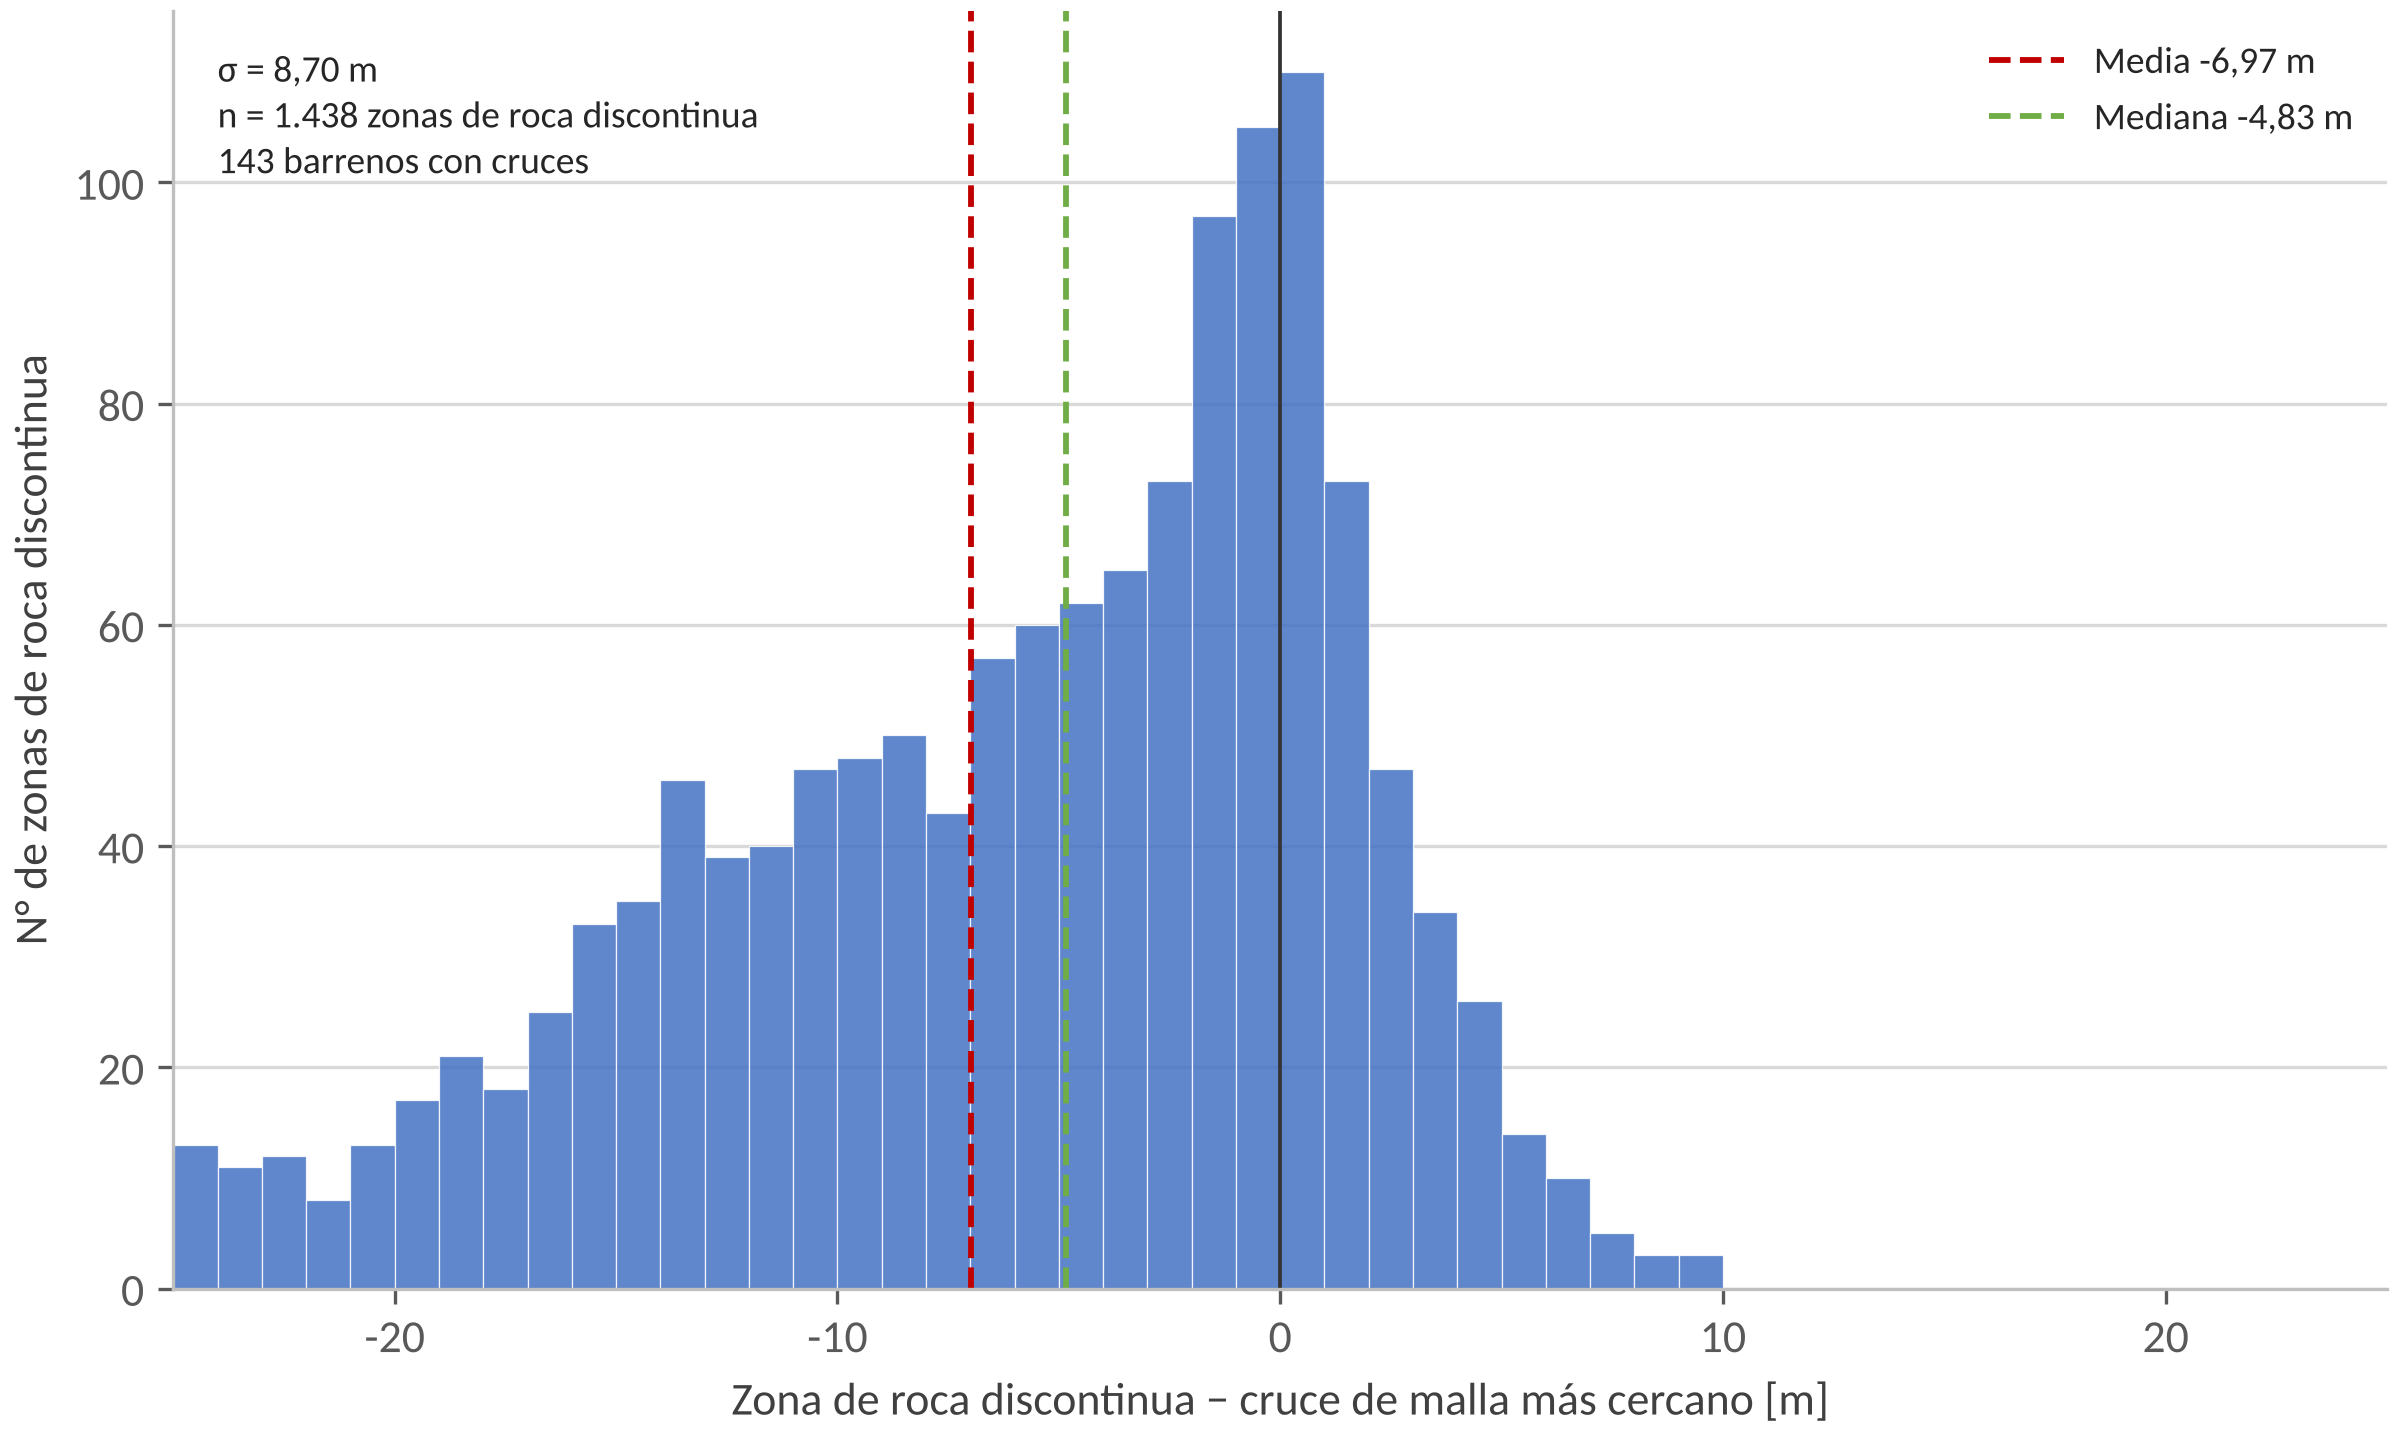
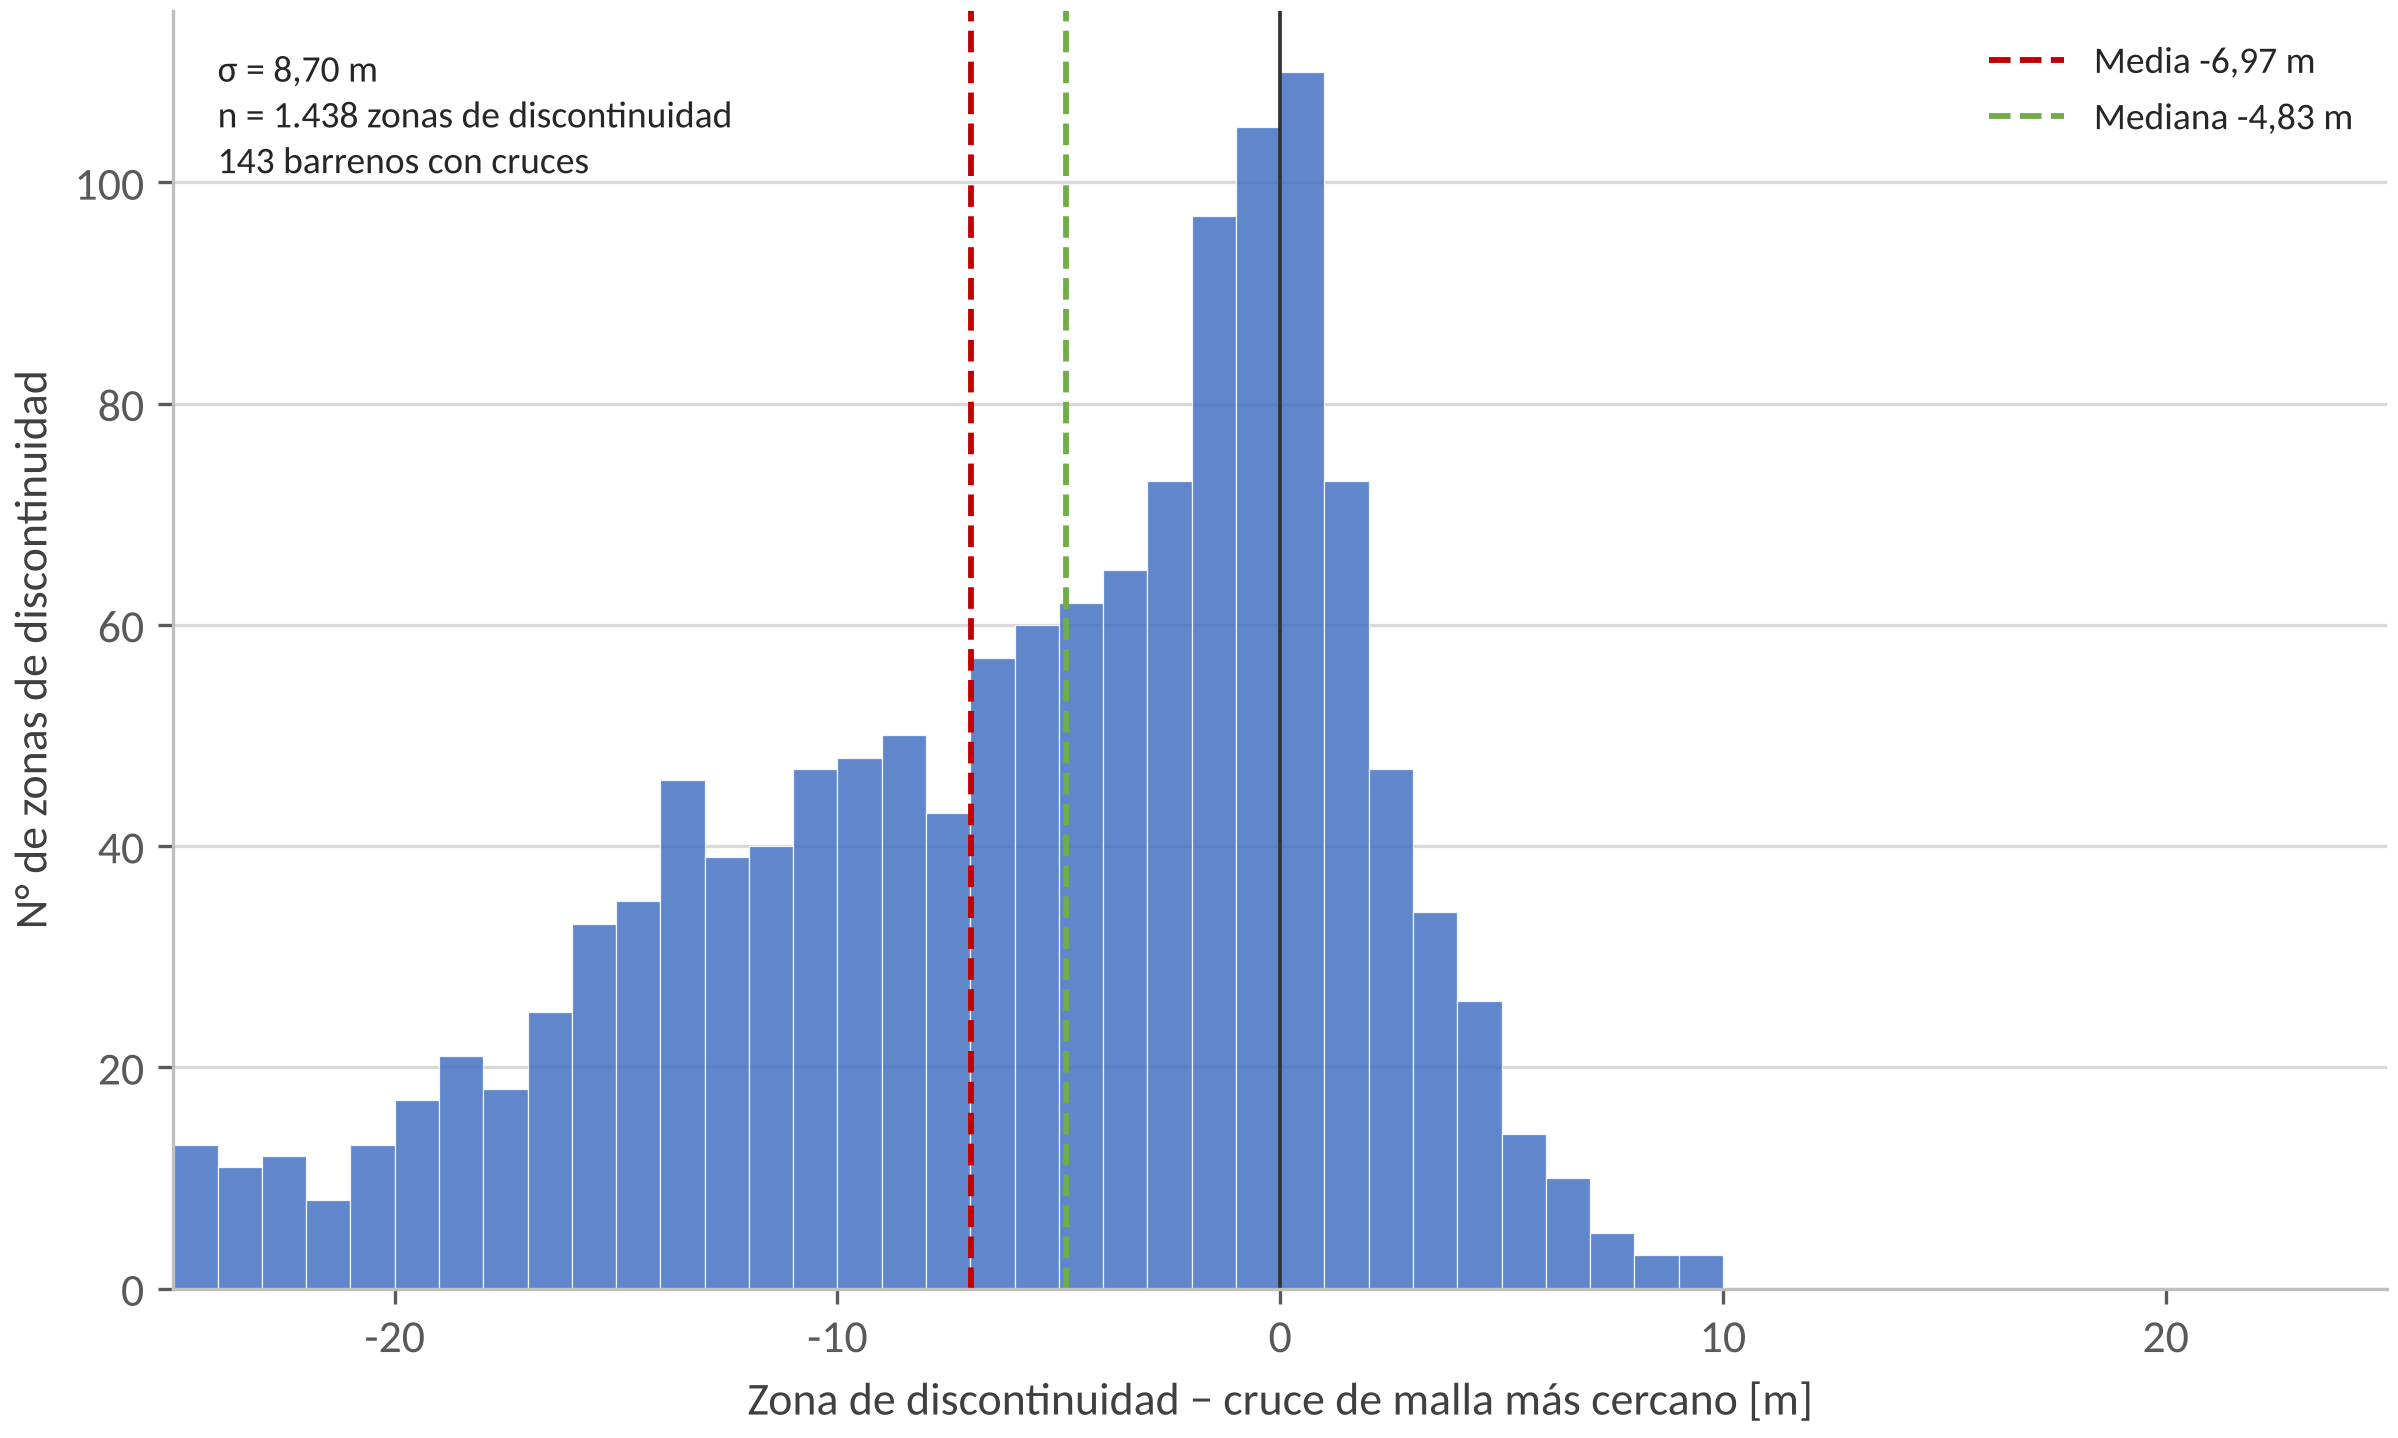
Concordancia: «zona de discontinuidad» en vez de «zona de roca discontinua» (Figuras 5.10-5.13, C.1, C.2)
Claude-Session: https://claude.ai/code/session_01MT9AkNnHr1e9AMWji6YncB

Changed region(s): [[0.3086, 0.9485, 0.7715, 1.0], [0.0, 0.2448, 0.0309, 0.6426], [0.216, 0.0612, 0.3086, 0.0918]]

diff --git a/memoria_final/final/final_figs.py b/memoria_final/final/final_figs.py
@@ -625,12 +625,12 @@ a1.hist(dl, bins=np.arange(-30, 30.5, 1.0), color=AZUL, alpha=0.85, edgecolor="w
 a1.axvline(0, color="#333", lw=0.9)
 a1.axvline(dl.mean(), color=ROJO, ls="--", lw=1.4, label=f"Media {dec(dl.mean(), 2)} m")
 a1.axvline(np.median(dl), color=VERDE, ls="--", lw=1.4, label=f"Mediana {dec(np.median(dl), 2)} m")
-a1.set_xlim(-25, 25); a1.set_xlabel("Zona de roca discontinua − cruce de malla más cercano [m]"); a1.set_ylabel("N° de zonas de roca discontinua")
+a1.set_xlim(-25, 25); a1.set_xlabel("Zona de discontinuidad − cruce de malla más cercano [m]"); a1.set_ylabel("N° de zonas de discontinuidad")
 a1.legend(fontsize=8.5); a1.grid(alpha=0.25)
-a1.text(0.02, 0.97, f"σ = {dec(dl.std(), 2)} m\nn = {mil(dl.size)} zonas de roca discontinua", transform=a1.transAxes, va="top", fontsize=8.5)
+a1.text(0.02, 0.97, f"σ = {dec(dl.std(), 2)} m\nn = {mil(dl.size)} zonas de discontinuidad", transform=a1.transAxes, va="top", fontsize=8.5)
 uu = [f["u"] for f in PRr]
-a2.plot(uu, [100 * f["P"] for f in PRr], "o-", color=AZUL, label="Precisión: zonas de roca discontinua a ≤ 3 m de un cruce")
-a2.plot(uu, [100 * f["R"] for f in PRr], "s-", color=ROJO, label="Recall: cruces con una zona de roca discontinua a ≤ 3 m")
+a2.plot(uu, [100 * f["P"] for f in PRr], "o-", color=AZUL, label="Precisión: zonas de discontinuidad a ≤ 3 m de un cruce")
+a2.plot(uu, [100 * f["R"] for f in PRr], "s-", color=ROJO, label="Recall: cruces con una zona de discontinuidad a ≤ 3 m")
 a2.plot(uu, [100 * f["azar"] for f in PRr], ":", color=GRIS, lw=2, label="Precisión esperada al azar")
 a2.axvline(UMB, color="#333", ls="--", lw=0.9)
 f1 = next(f for f in PRr if abs(f["u"] - UMB) < 1e-9)
@@ -653,13 +653,13 @@ if os.path.exists(FCC):
         a1.axvline(0, color="#333", lw=0.9)
         a1.axvline(dl.mean(), color=ROJO, ls="--", lw=1.4, label=f"Media {dec(dl.mean(), 2)} m")
         a1.axvline(np.median(dl), color=VERDE, ls="--", lw=1.4, label=f"Mediana {dec(np.median(dl), 2)} m")
-        a1.set_xlim(-25, 25); a1.set_ylabel("N° de zonas de roca discontinua"); a1.legend(fontsize=8.5, loc="upper right")
-        a1.text(0.02, 0.97, f"σ = {dec(dl.std(), 2)} m\nn = {mil(dl.size)} zonas de roca discontinua\n{C['n_pozos_con_cruces']} barrenos con cruces",
+        a1.set_xlim(-25, 25); a1.set_ylabel("N° de zonas de discontinuidad"); a1.legend(fontsize=8.5, loc="upper right")
+        a1.text(0.02, 0.97, f"σ = {dec(dl.std(), 2)} m\nn = {mil(dl.size)} zonas de discontinuidad\n{C['n_pozos_con_cruces']} barrenos con cruces",
                 transform=a1.transAxes, va="top", fontsize=8.5)
         a1.set_title(f"{ET[nom]} — desfase pico–cruce", fontsize=10.5)
         uu = [f["u"] for f in PRr]
-        a2.plot(uu, [100 * f["P"] for f in PRr], "o-", color=AZUL, label="Precisión: zonas de roca discontinua a ≤ 3 m de un cruce")
-        a2.plot(uu, [100 * f["R"] for f in PRr], "s-", color=ROJO, label="Recall: cruces con una zona de roca discontinua a ≤ 3 m")
+        a2.plot(uu, [100 * f["P"] for f in PRr], "o-", color=AZUL, label="Precisión: zonas de discontinuidad a ≤ 3 m de un cruce")
+        a2.plot(uu, [100 * f["R"] for f in PRr], "s-", color=ROJO, label="Recall: cruces con una zona de discontinuidad a ≤ 3 m")
         a2.plot(uu, [100 * f["azar"] for f in PRr], ":", color=GRIS, lw=2, label="Precisión esperada al azar")
         a2.axvline(UMB, color="#333", ls="--", lw=0.9)
         f1 = next(f for f in PRr if abs(f["u"] - UMB) < 1e-9)
@@ -667,7 +667,7 @@ if os.path.exists(FCC):
                     (UMB, 100 * f1["P"]), xytext=(10, 18), textcoords="offset points", fontsize=8.5,
                     arrowprops=dict(arrowstyle="-", color="#555"))
         a2.set_ylabel("%"); a2.set_ylim(0, 100); a2.set_title(f"{ET[nom]} — sensibilidad al umbral", fontsize=10.5)
-    axs[-1][0].set_xlabel("Zona de roca discontinua − cruce de malla más cercano [m]"); axs[-1][1].set_xlabel("Umbral de DI")
+    axs[-1][0].set_xlabel("Zona de discontinuidad − cruce de malla más cercano [m]"); axs[-1][1].set_xlabel("Umbral de DI")
     h_, l_ = axs[0][1].get_legend_handles_labels()
     fig.legend(h_, l_, fontsize=9.5, ncol=3, loc="outside lower center")
     fig.suptitle("Picos de DI y cruces de malla (litología y estructura) por conjunto de caserones")
@@ -680,15 +680,15 @@ if os.path.exists(FCC):
         a1.axvline(0, color="#333", lw=0.9)
         a1.axvline(dl.mean(), color=ROJO, ls="--", lw=1.4, label=f"Media {dec(dl.mean(), 2)} m")
         a1.axvline(np.median(dl), color=VERDE, ls="--", lw=1.4, label=f"Mediana {dec(np.median(dl), 2)} m")
-        a1.set_xlim(-25, 25); a1.set_ylabel("N° de zonas de roca discontinua"); a1.set_xlabel("Zona de roca discontinua − cruce de malla más cercano [m]")
+        a1.set_xlim(-25, 25); a1.set_ylabel("N° de zonas de discontinuidad"); a1.set_xlabel("Zona de discontinuidad − cruce de malla más cercano [m]")
         a1.legend(fontsize=9, loc="upper right")
-        a1.text(0.02, 0.97, f"σ = {dec(dl.std(), 2)} m\nn = {mil(dl.size)} zonas de roca discontinua\n{C['n_pozos_con_cruces']} barrenos con cruces",
+        a1.text(0.02, 0.97, f"σ = {dec(dl.std(), 2)} m\nn = {mil(dl.size)} zonas de discontinuidad\n{C['n_pozos_con_cruces']} barrenos con cruces",
                 transform=a1.transAxes, va="top", fontsize=9)
         fig.suptitle(f"Desfase pico de DI – cruce de malla — {ET[nom]}")
         guardar(fig, f"F6_09b_desfase_{SUF[nom]}.png")
         fig, a2 = plt.subplots(figsize=(8, 4.8)); uu = [f["u"] for f in PRr]
-        a2.plot(uu, [100 * f["P"] for f in PRr], "o-", color=AZUL, label="Precisión: zonas de roca discontinua a ≤ 3 m de un cruce")
-        a2.plot(uu, [100 * f["R"] for f in PRr], "s-", color=ROJO, label="Recall: cruces con una zona de roca discontinua a ≤ 3 m")
+        a2.plot(uu, [100 * f["P"] for f in PRr], "o-", color=AZUL, label="Precisión: zonas de discontinuidad a ≤ 3 m de un cruce")
+        a2.plot(uu, [100 * f["R"] for f in PRr], "s-", color=ROJO, label="Recall: cruces con una zona de discontinuidad a ≤ 3 m")
         a2.plot(uu, [100 * f["azar"] for f in PRr], ":", color=GRIS, lw=2, label="Precisión esperada al azar")
         a2.axvline(UMB, color="#333", ls="--", lw=0.9)
         f1 = next(f for f in PRr if abs(f["u"] - UMB) < 1e-9)
